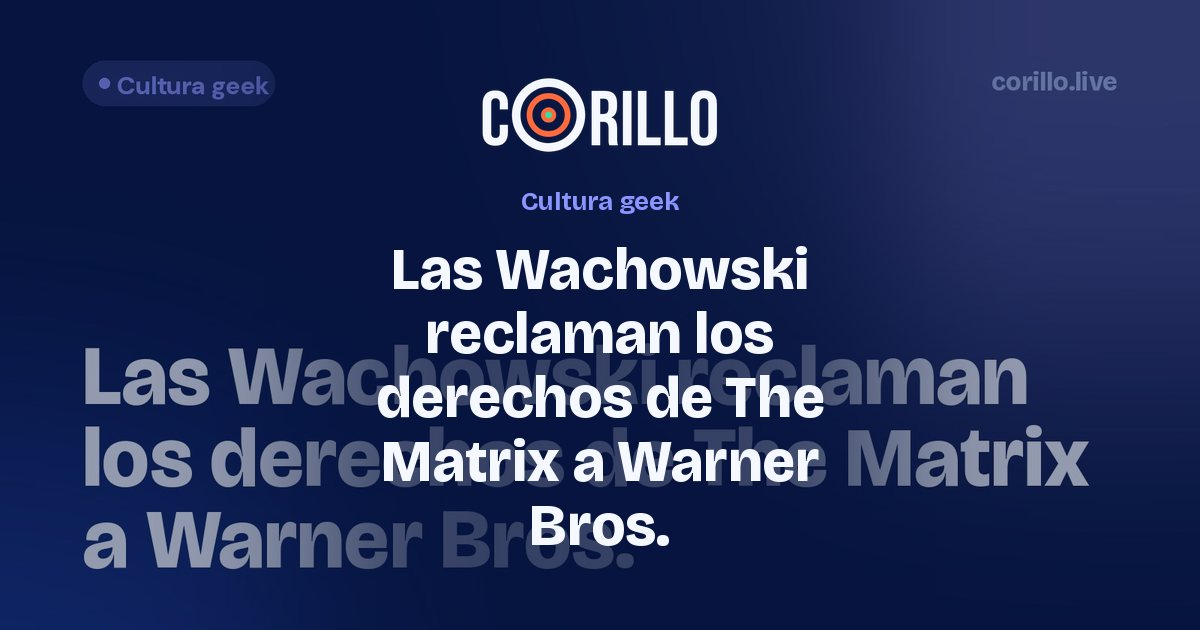
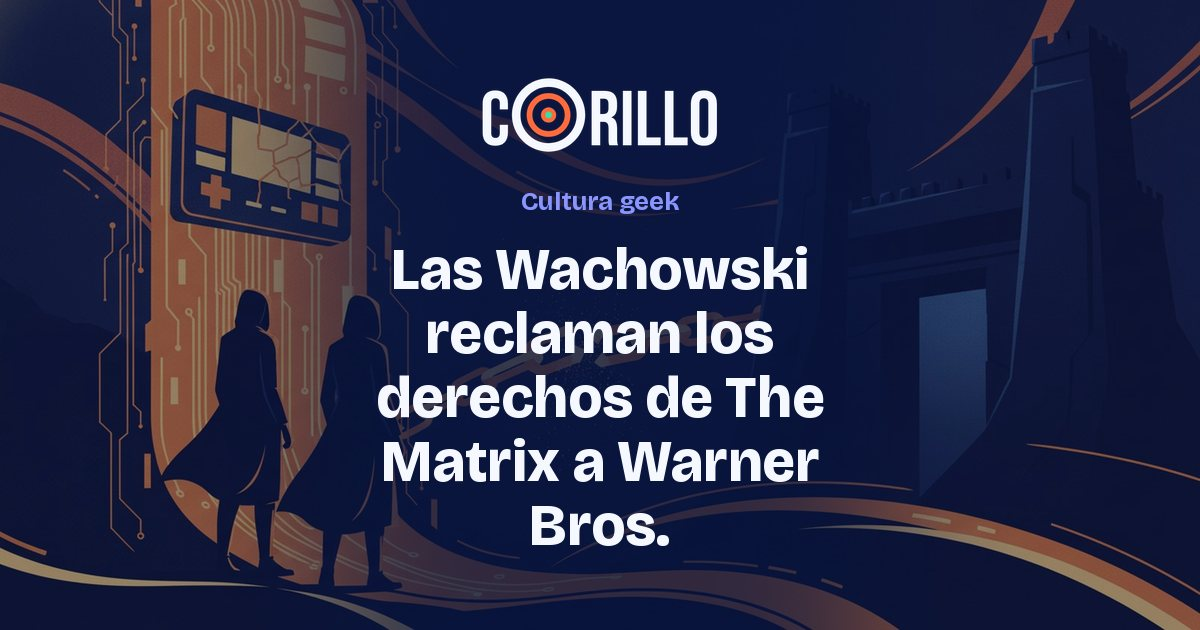
Nota Wachowski: ilustración IA en vez de la portada de diseño (sin publicar, espera OK)
Claude-Session: https://claude.ai/code/session_018Cr62B6sDysZiQtFETwKsA

diff --git a/src/content/noticias/2026-11-18-las-wachowski-reclaman-los-derechos-de-the-matrix-a-warner-bros.md b/src/content/noticias/2026-11-18-las-wachowski-reclaman-los-derechos-de-the-matrix-a-warner-bros.md
@@ -21,7 +21,7 @@ sources:
   - name: "Hobby Consolas"
     url: "https://www.hobbyconsolas.com/hobbycine/matrix-5-esta-peligro-las-hermanas-wachowski-reclaman-devolucion-los-derechos-por-parte-warner_7062401_0.html"
 image: "/noticias/portadas/2026-11-18-las-wachowski-reclaman-los-derechos-de-the-matrix-a-warner-bros.jpg"
-imageCredit: "Portada de Corillo"
+imageCredit: "Ilustración generada para Corillo"
 ---
 
 Las hermanas Wachowski, creadoras de The Matrix, han notificado formalmente a Warner Bros. que ejercen sus derechos de terminación de copyright sobre la franquicia. Según informa Puck News, la restitución de los derechos podría ocurrir en febrero de 2029, lo que devolvería a Lana y Lilly Wachowski el control sobre futuras producciones de la saga.
